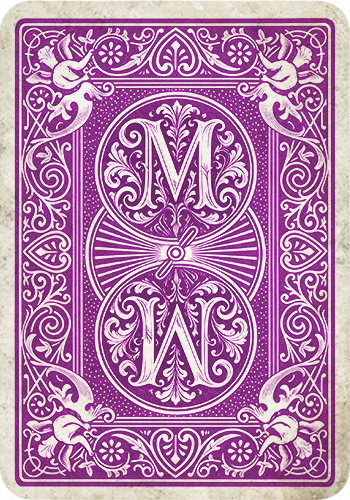
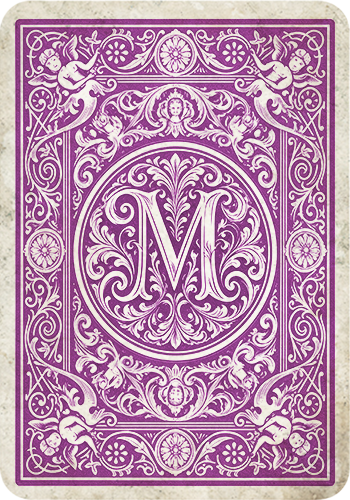
Add a Settings panel with card back colors, align foundations to the tableau, fix win modal CSS
Settings panel: a gear icon in the topbar opens a modal (styled to
match the existing win-overlay) for choosing among the 4 updated card
back colors (red/blue/green/purple). Built for extensibility -
preferences.js is a generic localStorage key/value store that knows
nothing about what preferences exist, and script.js's
PREFERENCE_SECTIONS config array is what the panel actually renders
itself from (options support either an image thumbnail or a flat color
swatch). Adding a future preference (table surface, card face style,
...) should only ever mean adding another entry to that array, not new
panel-building code. The choice applies immediately and persists
across reloads; all 4 back colors are preloaded on startup so switching
never causes a decode-flash.

Foundations alignment: the "A" slots drifted right by a viewport-
dependent amount because #top-row stretched to fill #board's fluid
width (up to 900px) while #tableau stayed packed at its own narrower
natural width. Both are now pinned to an explicit --tableau-width
(7 columns + 6 gaps) and centered, so the foundations land flush with
the tableau's right edge at any viewport size.

Win modal: #win-overlay's CSS (position/display/z-index, and the
.hidden rule that actually hides it) had gone missing, so "You win!"
was rendering as a permanent bar at the bottom of the page instead of
a hidden modal. Restored.

diff --git a/script.js b/script.js
@@ -7,6 +7,7 @@ import {
   applyMove,
   cloneState,
 } from './game-logic.js';
+import { getPreference, setPreference } from './preferences.js';
 
 (() => {
   const SUITS = [
@@ -17,7 +18,43 @@ import {
   ];
   const RANK_LABELS = ['', 'A', '2', '3', '4', '5', '6', '7', '8', '9', '10', 'J', 'Q', 'K'];
   const RANK_FILES = ['', '1', '2', '3', '4', '5', '6', '7', '8', '9', '10', 'jack', 'queen', 'king'];
-  const CARD_BACK_SRC = 'assets/cards/back.png';
+
+  // Every user-choosable preference, driving both the Settings panel's UI
+  // (built generically from this array - see renderSettingsPanel) and how
+  // the board itself reads the choice back (see getCardBackSrc). Adding a
+  // future preference (table surface, card face style, ...) should only
+  // ever mean adding another entry here, an appearance-reading helper
+  // like getCardBackSrc, and the render-time call sites that use it -
+  // never new settings-panel plumbing.
+  const PREFERENCE_SECTIONS = [
+    {
+      key: 'cardBack',
+      label: 'Card Back',
+      default: 'red',
+      options: [
+        { id: 'red', label: 'Red', previewSrc: 'assets/cards/back-red.png' },
+        { id: 'blue', label: 'Blue', previewSrc: 'assets/cards/back-blue.png' },
+        { id: 'green', label: 'Green', previewSrc: 'assets/cards/back-green.png' },
+        { id: 'purple', label: 'Purple', previewSrc: 'assets/cards/back-purple.png' },
+      ],
+    },
+  ];
+
+  function findPreferenceSection(key) {
+    return PREFERENCE_SECTIONS.find(s => s.key === key);
+  }
+
+  // Falls back to the section's first option if a stored value doesn't
+  // match any current option (e.g. an option was renamed/removed in a
+  // later update) - never lets a stale preference break rendering.
+  function currentPreferenceOption(section) {
+    const chosenId = getPreference(section.key, section.default);
+    return section.options.find(o => o.id === chosenId) ?? section.options[0];
+  }
+
+  function getCardBackSrc() {
+    return currentPreferenceOption(findPreferenceSection('cardBack')).previewSrc;
+  }
 
   function cardImageSrc(card) {
     const suit = SUITS.find(s => s.key === card.suit);
@@ -30,11 +67,18 @@ import {
   // decoded bitmap is ready. Pre-decoding every face here means that by the
   // time makeCardEl creates a new <img> pointing at the same URL, the decode
   // is already done and it paints immediately instead of flashing blank.
+  // Every card-back color gets preloaded too (not just the active one) so
+  // switching in Settings mid-game never flashes either.
   function preloadCardImages() {
-    const urls = [CARD_BACK_SRC];
+    const urls = [];
     for (const suit of SUITS) {
       for (let rank = 1; rank <= 13; rank++) {
         urls.push(cardImageSrc({ suit: suit.key, rank }));
+      }
+    }
+    for (const section of PREFERENCE_SECTIONS) {
+      for (const option of section.options) {
+        if (option.previewSrc) urls.push(option.previewSrc);
       }
     }
     urls.forEach(src => {
@@ -93,6 +137,10 @@ import {
   const winOverlay = document.getElementById('win-overlay');
   const winStats = document.getElementById('win-stats');
   const winNewGameBtn = document.getElementById('winNewGameBtn');
+  const settingsBtn = document.getElementById('settingsBtn');
+  const settingsOverlay = document.getElementById('settings-overlay');
+  const settingsCloseBtn = document.getElementById('settingsCloseBtn');
+  const settingsSections = document.getElementById('settings-sections');
 
   function freshDeck() {
     const deck = [];
@@ -193,7 +241,7 @@ import {
       img.src = cardImageSrc(card);
       img.alt = `${RANK_LABELS[card.rank]} of ${card.suit}`;
     } else {
-      img.src = CARD_BACK_SRC;
+      img.src = getCardBackSrc();
       img.alt = 'face-down card';
     }
     el.appendChild(img);
@@ -295,7 +343,7 @@ import {
     front.className = 'flip-face flip-front';
     const frontImg = document.createElement('img');
     frontImg.decoding = 'sync';
-    frontImg.src = CARD_BACK_SRC;
+    frontImg.src = getCardBackSrc();
     frontImg.alt = 'face-down card';
     front.appendChild(frontImg);
 
@@ -718,6 +766,75 @@ import {
       glideGhostsTo(ghosts, originRects, originRects, DROP_MS, false);
     }
   }
+
+  // ---------- settings panel ----------
+
+  function renderPreferenceOptionPreview(option) {
+    // Image-backed options (card back, and presumably card face style
+    // later) show the actual asset, scaled down by CSS; a future
+    // non-image preference (table surface color?) can supply
+    // previewColor instead and get a flat swatch - renderSettingsPanel
+    // itself never needs to know which kind a given section uses.
+    if (option.previewSrc) {
+      const img = document.createElement('img');
+      img.src = option.previewSrc;
+      img.alt = option.label;
+      img.draggable = false;
+      return img;
+    }
+    const swatch = document.createElement('div');
+    swatch.className = 'settings-option-swatch';
+    swatch.style.background = option.previewColor;
+    return swatch;
+  }
+
+  // Rebuilds the whole panel from PREFERENCE_SECTIONS every time it's
+  // opened or a choice changes - cheap (a handful of small buttons), and
+  // means a newly added section just appears with no other code to
+  // update, matching how the rest of this file re-renders on any change.
+  function renderSettingsPanel() {
+    settingsSections.innerHTML = '';
+    for (const section of PREFERENCE_SECTIONS) {
+      const current = currentPreferenceOption(section);
+
+      const sectionEl = document.createElement('div');
+      sectionEl.className = 'settings-section';
+
+      const heading = document.createElement('h3');
+      heading.className = 'settings-section-label';
+      heading.textContent = section.label;
+      sectionEl.appendChild(heading);
+
+      const optionsRow = document.createElement('div');
+      optionsRow.className = 'settings-options';
+      for (const option of section.options) {
+        const optionBtn = document.createElement('button');
+        optionBtn.type = 'button';
+        optionBtn.className = 'settings-option';
+        optionBtn.classList.toggle('selected', option.id === current.id);
+        optionBtn.setAttribute('aria-label', option.label);
+        optionBtn.appendChild(renderPreferenceOptionPreview(option));
+        optionBtn.addEventListener('click', () => {
+          if (option.id === current.id) return;
+          setPreference(section.key, option.id);
+          renderSettingsPanel(); // move the selected-highlight
+          render(); // apply immediately - e.g. face-down cards pick up the new back right away
+        });
+        optionsRow.appendChild(optionBtn);
+      }
+      sectionEl.appendChild(optionsRow);
+      settingsSections.appendChild(sectionEl);
+    }
+  }
+
+  settingsBtn.addEventListener('click', () => {
+    renderSettingsPanel();
+    settingsOverlay.classList.remove('hidden');
+  });
+  settingsCloseBtn.addEventListener('click', () => settingsOverlay.classList.add('hidden'));
+  settingsOverlay.addEventListener('click', e => {
+    if (e.target === settingsOverlay) settingsOverlay.classList.add('hidden');
+  });
 
   // ---------- controls ----------
 

diff --git a/style.css b/style.css
@@ -7,6 +7,13 @@
      to read the corner's rank + the top of its suit pip. */
   --cascade-down: 9px;
   --cascade-up: 24px;
+  --pile-gap: 14px;
+  /* The tableau's own natural width (7 columns + 6 gaps) - #top-row and
+     #tableau are both pinned to exactly this width (see their rules
+     below) so the foundations land flush with the tableau's right edge
+     instead of drifting with #board's fluid width. Recomputes correctly
+     at the mobile breakpoint since --card-w changes there too. */
+  --tableau-width: calc(7 * var(--card-w) + 6 * var(--pile-gap));
   --felt: #0b5d3b;
   --felt-dark: #084a2f;
   --gold: #d9b45c;
@@ -112,6 +119,12 @@ html, body {
 .controls button:hover { background: rgba(255,255,255,0.18); }
 .controls button:disabled { opacity: 0.4; cursor: default; }
 
+.controls button.icon-button {
+  padding: 6px 10px;
+  font-size: 16px;
+  line-height: 1;
+}
+
 #board {
   padding: 24px 28px 60px;
   max-width: 900px;
@@ -121,12 +134,14 @@ html, body {
 #top-row {
   display: flex;
   justify-content: space-between;
+  width: var(--tableau-width);
+  margin-inline: auto;
   margin-bottom: 34px;
 }
 
 #stock-waste, #foundations, #tableau {
   display: flex;
-  gap: 14px;
+  gap: var(--pile-gap);
 }
 
 .pile {
@@ -166,7 +181,11 @@ html, body {
   border-radius: 8px;
 }
 
-#tableau { align-items: flex-start; }
+#tableau {
+  align-items: flex-start;
+  width: var(--tableau-width);
+  margin-inline: auto;
+}
 
 .card {
   position: absolute;
@@ -307,6 +326,97 @@ html, body {
   inset: 0;
   pointer-events: none;
   z-index: 1000;
+}
+
+#settings-overlay {
+  position: fixed;
+  inset: 0;
+  background: rgba(0,0,0,0.65);
+  display: flex;
+  align-items: center;
+  justify-content: center;
+  z-index: 2000;
+}
+#settings-overlay.hidden { display: none; }
+
+#settings-card {
+  background: #133;
+  border: 1px solid var(--gold);
+  border-radius: 12px;
+  padding: 24px 28px 28px;
+  width: min(90vw, 380px);
+  max-height: 85vh;
+  overflow-y: auto;
+}
+
+#settings-header {
+  display: flex;
+  align-items: center;
+  justify-content: space-between;
+  margin-bottom: 12px;
+}
+#settings-header h2 {
+  color: var(--gold);
+  margin: 0;
+  font-size: 18px;
+}
+#settingsCloseBtn {
+  background: none;
+  border: none;
+  color: #eee;
+  font-size: 22px;
+  line-height: 1;
+  cursor: pointer;
+  opacity: 0.7;
+  padding: 0;
+}
+#settingsCloseBtn:hover { opacity: 1; }
+
+.settings-section + .settings-section {
+  margin-top: 20px;
+}
+.settings-section-label {
+  color: #cde;
+  font-size: 12px;
+  font-weight: 600;
+  text-transform: uppercase;
+  letter-spacing: 0.05em;
+  margin: 0 0 10px;
+}
+
+.settings-options {
+  display: flex;
+  flex-wrap: wrap;
+  gap: 10px;
+}
+
+.settings-option {
+  width: 48px;
+  height: 68px;
+  padding: 0;
+  border-radius: 6px;
+  border: 2px solid transparent;
+  background: rgba(255,255,255,0.08);
+  cursor: pointer;
+  overflow: hidden;
+  transition: border-color 0.15s, transform 0.15s;
+}
+.settings-option:hover { transform: scale(1.05); }
+.settings-option.selected {
+  border-color: var(--gold);
+  box-shadow: 0 0 8px 1px rgba(217, 180, 92, 0.5);
+}
+
+.settings-option img {
+  display: block;
+  width: 100%;
+  height: 100%;
+  object-fit: cover;
+}
+
+.settings-option-swatch {
+  width: 100%;
+  height: 100%;
 }
 
 #win-overlay {

diff --git a/preferences.js b/preferences.js
@@ -1,0 +1,38 @@
+// Tiny localStorage-backed key/value store for user preferences (card
+// back color, and whatever gets added later - table surface, card face
+// style, etc.). Deliberately schema-free: this module doesn't know what
+// keys exist or what their valid values are - that's the settings
+// panel's own config (see PREFERENCE_SECTIONS in script.js). Keeping
+// this generic means adding a new preference never requires touching
+// this file.
+
+const STORAGE_KEY = 'klondike-preferences';
+
+function readAll() {
+  try {
+    const raw = localStorage.getItem(STORAGE_KEY);
+    return raw ? JSON.parse(raw) : {};
+  } catch {
+    return {};
+  }
+}
+
+function writeAll(prefs) {
+  try {
+    localStorage.setItem(STORAGE_KEY, JSON.stringify(prefs));
+  } catch {
+    // Private browsing, storage disabled/full, etc. - preferences just
+    // won't persist across reloads; not worth surfacing an error for.
+  }
+}
+
+export function getPreference(key, fallback) {
+  const prefs = readAll();
+  return key in prefs ? prefs[key] : fallback;
+}
+
+export function setPreference(key, value) {
+  const prefs = readAll();
+  prefs[key] = value;
+  writeAll(prefs);
+}

diff --git a/index.html b/index.html
@@ -23,6 +23,7 @@
       <button id="drawModeBtn">Draw 1</button>
       <button id="undoBtn">Undo</button>
       <button id="newGameBtn">New Game</button>
+      <button id="settingsBtn" class="icon-button" aria-label="Settings">&#9881;</button>
     </div>
   </header>
 
@@ -50,6 +51,16 @@
       <div class="pile column" id="tableau-6" data-pile="tableau" data-index="6"></div>
     </div>
   </main>
+
+  <div id="settings-overlay" class="hidden">
+    <div id="settings-card">
+      <div id="settings-header">
+        <h2>Settings</h2>
+        <button id="settingsCloseBtn" aria-label="Close">&times;</button>
+      </div>
+      <div id="settings-sections"></div>
+    </div>
+  </div>
 
   <div id="win-overlay" class="hidden">
     <div id="win-card">
